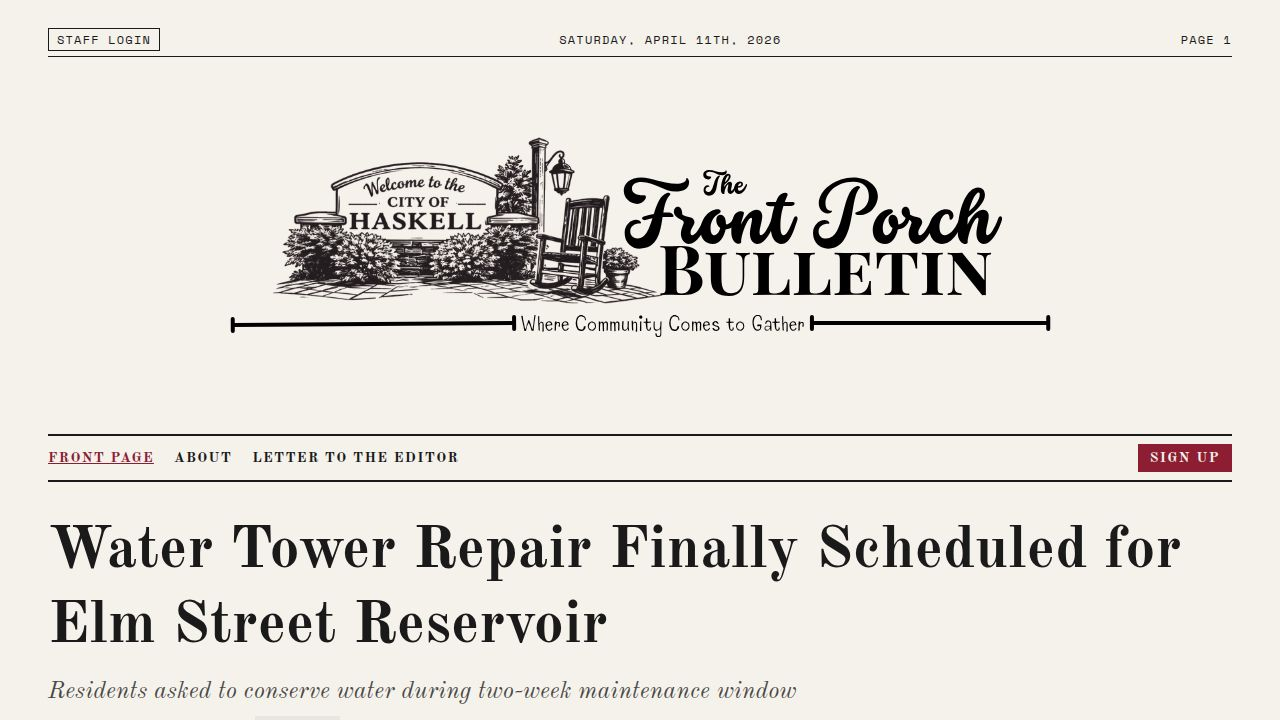
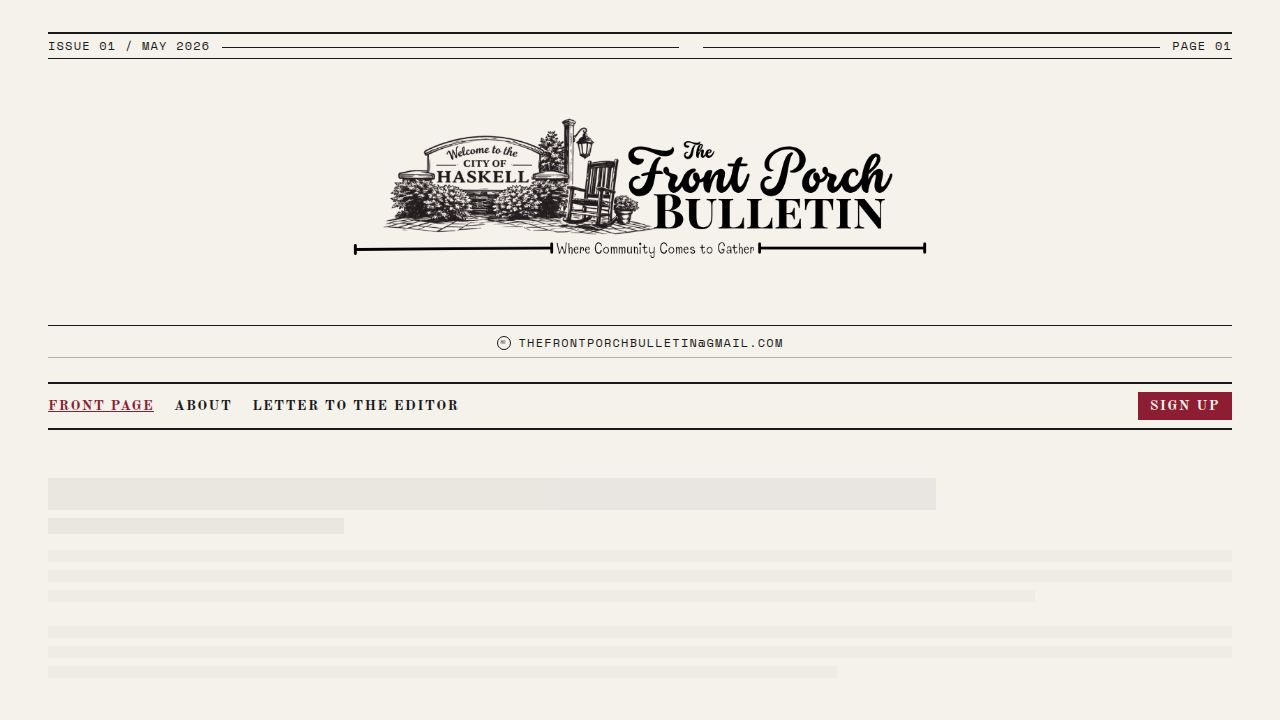
Improve how business descriptions are displayed in admin preview
Update AdminBusinessSpotlight.tsx to render multi-line descriptions with proper paragraph formatting in the admin preview.

Replit-Commit-Author: Agent
Replit-Commit-Session-Id: 3c2daef7-776c-46ac-bbdf-042907dcd835
Replit-Commit-Checkpoint-Type: full_checkpoint
Replit-Commit-Event-Id: 578c48d0-8e1f-449d-be16-98a24f62fc00
Replit-Commit-Screenshot-Url: https://storage.googleapis.com/screenshot-production-us-central1/7f0a41a4-c9bb-4e80-9f87-06b6c5935f54/3c2daef7-776c-46ac-bbdf-042907dcd835/FgoOsig
Replit-Helium-Checkpoint-Created: true

diff --git a/artifacts/front-porch-bulletin/src/pages/admin/AdminBusinessSpotlight.tsx b/artifacts/front-porch-bulletin/src/pages/admin/AdminBusinessSpotlight.tsx
@@ -147,7 +147,17 @@ export default function AdminBusinessSpotlight() {
               <p className="text-xs font-mono uppercase tracking-widest text-foreground/60 mb-1 text-center">Business of the Week</p>
               <p className="font-headline font-bold text-base leading-tight mb-0.5">{form.name || "Business Name"}</p>
               <p className="text-xs font-mono uppercase tracking-wider text-foreground/70 mb-1">{form.businessType || "Business Type"}</p>
-              <p className="font-serif text-xs leading-relaxed text-foreground/80">{form.description || "Description will appear here."}</p>
+              <div className="font-serif text-xs leading-relaxed text-foreground/80">
+                {form.description
+                  ? form.description.split('\n\n').map((para, i) => (
+                      <p key={i} className={i > 0 ? "mt-2" : ""}>
+                        {para.split('\n').map((line, j) => (
+                          j === 0 ? line : <>{'\n'}<br />{line}</>
+                        ))}
+                      </p>
+                    ))
+                  : "Description will appear here."}
+              </div>
             </div>
           </div>
         </div>